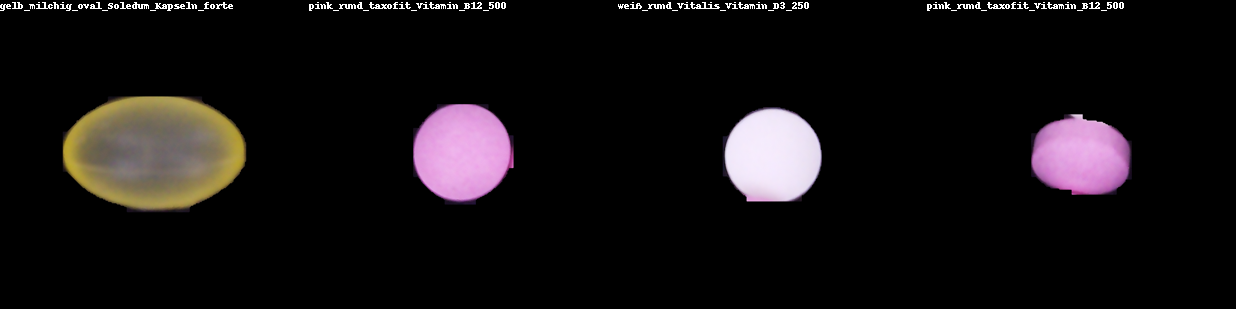
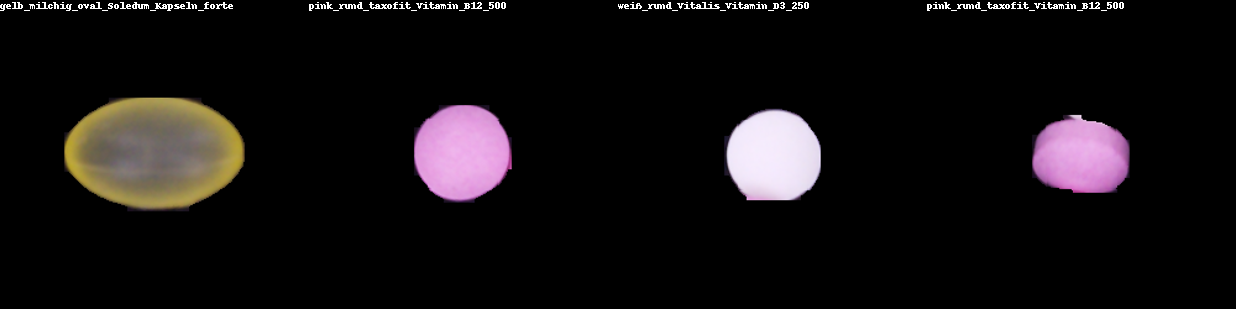
optimized

diff --git a/determine.py b/determine.py
@@ -1,11 +1,13 @@
+import time
 import numpy as np
 from glob import glob
 from PIL import Image
 from image_similarity_measures.quality_metrics import rmse   # root-mean-square error Berechnung
 import threading
-
+import math
 
 determine_dat={}
+determine_dat_low_res={}
 def reload():
     """Bilder neu laden
     """
@@ -14,53 +16,69 @@ def reload():
     for img_path in imgs:
         pill_type=img_path.split("\\")[1]
         local_determine_dat[pill_type]=local_determine_dat.get(pill_type,[])+[Image.open(img_path)]
-    global determine_dat
+    local_determine_dat_low_res={
+        pill_type:[
+            img.resize((250,250))
+            for img in imgs
+            ] for pill_type,imgs in local_determine_dat.items()}
+    local_determine_dat_low_res={
+        pill_type:[
+            np.array(img)
+            for img in imgs
+            ] for pill_type,imgs in local_determine_dat_low_res.items()}
+    local_determine_dat={
+        pill_type:[
+            np.array(img)
+            for img in imgs
+            ] for pill_type,imgs in local_determine_dat.items()}
+    
+    global determine_dat,determine_dat_low_res
+    determine_dat_low_res=local_determine_dat_low_res
     determine_dat=local_determine_dat
 
-threading.Thread(target=reload).start()            # Bilder werden im Hintergrund geladen
 
 def determine(img,options:list|None=None):
     """Tablettenbestimmung
 
     Args:
         img (Image.Image): Ausgerichtetes 1000x1000 Pixel Bild mit schwarzem Hintergrund
-        options (list[str] | None, optional): Zu verwendete Tabletten.
+        options (list[str] | None, optional): Zu verwendende Tabletten.
 
     Returns:
-        _type_: Name der Tablette
-    """
-    if options == None:
-        options=determine_dat.keys()
-    best_type,best_score=compare(img,rmse,options,0.006)  
-    print(best_score,best_type)
-    return best_type
-
-def compare(img,func,options:list,max_score):
-    """Finden des besten Tablettentyps basierend auf den eingegebenen Tablettentypoptionen, der eingegebenen Vergleichsfunktion und dem Maximalwert 
-
-    Args:
-        img (Image.Image): zu vergleichendes Bild
-        func (callable): Vergleichsfunktion z.B. rmse
-        options (list): erlaubte Tablettentypen
-        max_score (float): Maximalwert, ab dem die Tablette als "unknown" klassifiziert wird.
-
-    Raises:
-        NotADirectoryError: Eine der Tablettenoptionen existiert nicht
-
-    Returns:
-        tuple[string, float]: Name und Ähnlichkeit der Tablette
+        str: Name der Tablette
     """
     while determine_dat=={}:
         pass
+    if options == None:
+        options=determine_dat.keys()
+    scores={}
+    best_type,best_score=compare(np.array(img),rmse,{option:determine_dat_low_res[option] for option in options},0.006,scores)  
+    #best_type,best_score=compare(np.array(img.resize((250,250))),rmse,{option:determine_dat_low_res[option] for option in options},0.006,scores)  
+    print(best_score,best_type)
+    return best_type
+
+def compare(img,func,options:dict[str:list],max_score,scores:dict={}):
     best_type="unknown"
     best_score=max_score   # ab dem Maximalwert wird die Tablette als "unknown" klassifiziert
-    for test_type in options:
-        if test_type not in determine_dat.keys():
-            raise NotADirectoryError(f"{test_type} does not exist at \"classify_data/\".")
-
-        for test_img in determine_dat[test_type]:
-            res=func(org_img=np.array(img), pred_img=np.array(test_img))
-            if res<best_score:
+    for test_type,test_imgs in options.items():
+        best_current_type_score=math.inf
+        for test_img in test_imgs:
+            res=func(org_img=img, pred_img=test_img)
+            if res<best_current_type_score:
+                best_current_type_score=res
+        if best_current_type_score<best_score:
                 best_type=test_type
-                best_score=res
+                best_score=best_current_type_score
+        scores[test_type]=best_current_type_score
     return best_type,best_score
+
+if __name__=="__main__":
+    reload()
+    imgs=["0.png","1.png","2.png"]
+    imgs=[Image.open(img) for img in imgs]
+    start=time.time()
+    for img in imgs:
+        determine(img)
+    print(time.time()-start)
+else:
+    threading.Thread(target=reload).start()            # Bilder werden im Hintergrund geladen

diff --git a/segment_YOLO/__init__.py b/segment_YOLO/__init__.py
@@ -30,6 +30,7 @@ def segment_and_separate(img: Image.Image):
     imgs = []
     if not results[0].masks:        # falls keine Tabletten vorhanden
         return []
+    img=img.resize(results[0].masks.data[0].shape[::-1])
     for mask in results[0].masks.data:
         mask = np.array(mask)
         
@@ -46,7 +47,7 @@ def segment_and_separate(img: Image.Image):
                 best_i=i
         mask=labeled_mask==best_i
         
-        mask=scale_array(mask,img.size[::-1]) # Maske auf Bildgröße hochskalieren
+        #mask=scale_array(mask,img.size[::-1]) # Maske auf Bildgröße hochskalieren
         
         img_np[np.logical_not(mask)] = [0, 0, 0] # alles was außerhalb der Tablette ist, wird schwarz gefärbt
         # Tablette ausschneiden

diff --git a/orient_pills.py b/orient_pills.py
@@ -32,10 +32,10 @@ def orient_pill(pill,mask):
     rotated_mask = ndimage.rotate(mask, angle, reshape=True) 
     rotated_pill=pill.rotate(angle, expand=True).crop(bounding_box(rotated_mask))
     
-    #Zentrieren auf einem 1000x1000 Pixel Bild
+    #Zentrieren auf einem 250x250 Pixel Bild
     x_min, y_min, x_max, y_max=bounding_box(rotated_mask)
-    new=Image.new("RGB",(1000,1000))
-    new.paste(rotated_pill,(int(500-(x_max-x_min)/2),int(500-(y_max-y_min)/2)))
+    new=Image.new("RGB",(250,250))
+    new.paste(rotated_pill,(int(125-(x_max-x_min)/2),int(125-(y_max-y_min)/2)))
     return new
 
 def orient_pills(pills)->list[Image.Image]:
